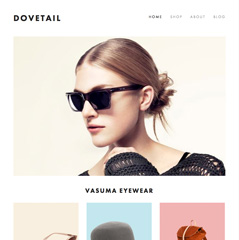
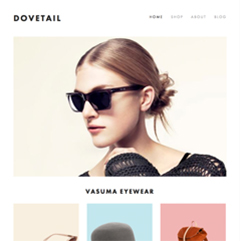
last last)

diff --git a/css/style.css b/css/style.css
@@ -155,6 +155,10 @@ body {
 .cart a:hover {
 	color: #fb565a;
 }
+.cart a:active {
+	color: #000000;
+	opacity: 0.3;
+}
 .list-item.active a {
 	color: #000000;
 	border-bottom: 2px solid #fb565a;
@@ -314,6 +318,7 @@ body {
 }
 .offer-block {
 	display: inline-block;
+	vertical-align: middle;
 	width: 240px;
 	min-height: 300px;
 	margin-right: 80px;
@@ -919,24 +924,23 @@ input[type="checkbox"]:checked:disabled+label::before {
 }
 .paginator-page {
 	display: inline-block;
-	width: 34px;
-	height: 34px;
+	width: 38px;
+	height: 38px;
 	margin-right: 10px;
 	font-size: 12px;
-	line-height: 34px;
+	line-height: 38px;
 	font-weight: 500;
 	color: #000000;
 	text-transform: uppercase;
-	font-weight: bold;
 	vertical-align: middle;
 	text-align: center;
 	background-color: #f1f1f1;
-	border: 2px solid #f1f1f1;
 	border-radius: 3px;
 }
 
 .paginator-list .active {
 	background-color: #ffffff;
+	box-shadow: inset 0 0 0 2px #f2f2f2;
 }
 .paginator-page a {
 	display: block;
@@ -945,13 +949,14 @@ input[type="checkbox"]:checked:disabled+label::before {
 	text-align: center;
 	color: #000000;
 	font-weight: 500;
+	border-radius: 3px;
 }
 .paginator-page a:hover {
 	background-color: #e5e5e5;
 }
 .paginator-page a:active {
 	background-color: #d5d5d5;
-	box-shadow: inset 0 3px #b5b5b5;
+	box-shadow: inset 0 0 0 2px #f2f2f2;
 }
 .next {
 	width: 135px;
@@ -1033,9 +1038,8 @@ input[type="checkbox"]:checked:disabled+label::before {
 }
 .social-text {
 	float: right;
-	padding-top: 50px;
+	padding-top: 74px;
 	margin-left: 0px;
-	margin-top: 20px;
 	width: 562px;
 	font-family: Roboto, Arial, Helvetica, sans-serif;
 	color: #283136;
@@ -1059,6 +1063,7 @@ input[type="checkbox"]:checked:disabled+label::before {
 	position: absolute;
 	top: 50%;
 	left: 50%;
+	-webkit-transform: translate(-50%, -50%);
 	transform: translate(-50%, -50%);
 	background-image: url("../img/icons/sprite.png");
 	background-repeat: no-repeat;

diff --git a/index.html b/index.html
@@ -115,8 +115,9 @@
 					</li> 
 					<li class="partner-item">
 						<a href="#"><img src="img/decoration/html-academy.png" width="199" height="68" 
-							alt="HTML-Академия"></a>
-						</li>
+							alt="HTML-Академия">
+						</a>
+					</li>
 						<li class="partner-item">	
 							<a href="#"><img src="img/decoration/borodinsky.png" width="209" height="90" alt="Бородински">
 							</a>
